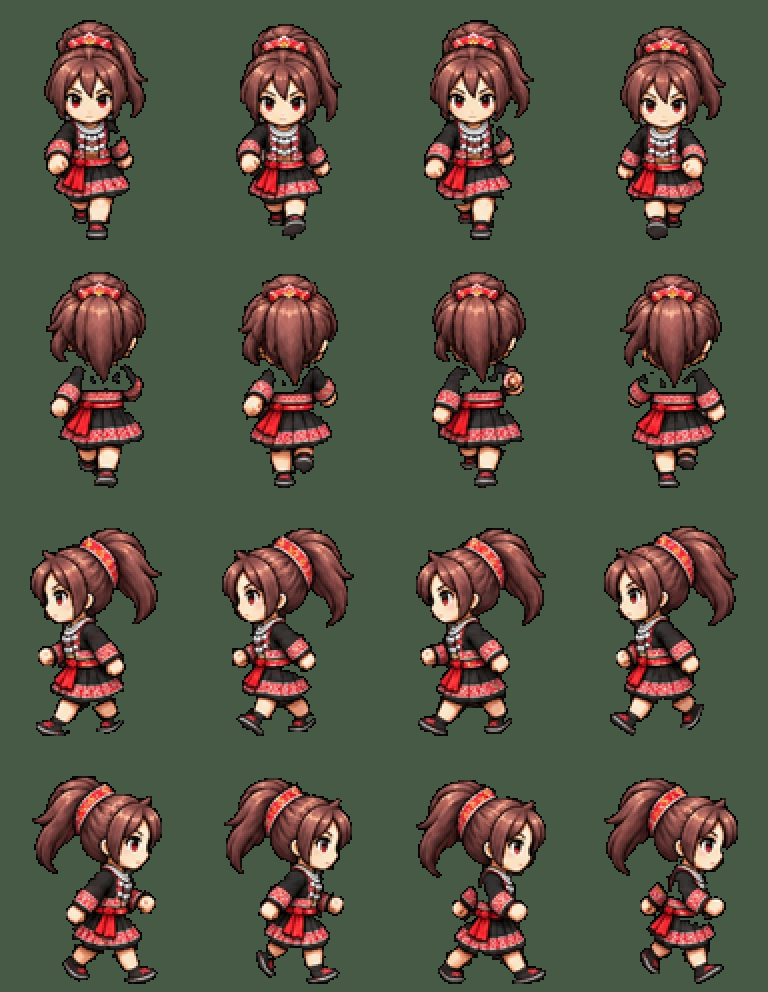
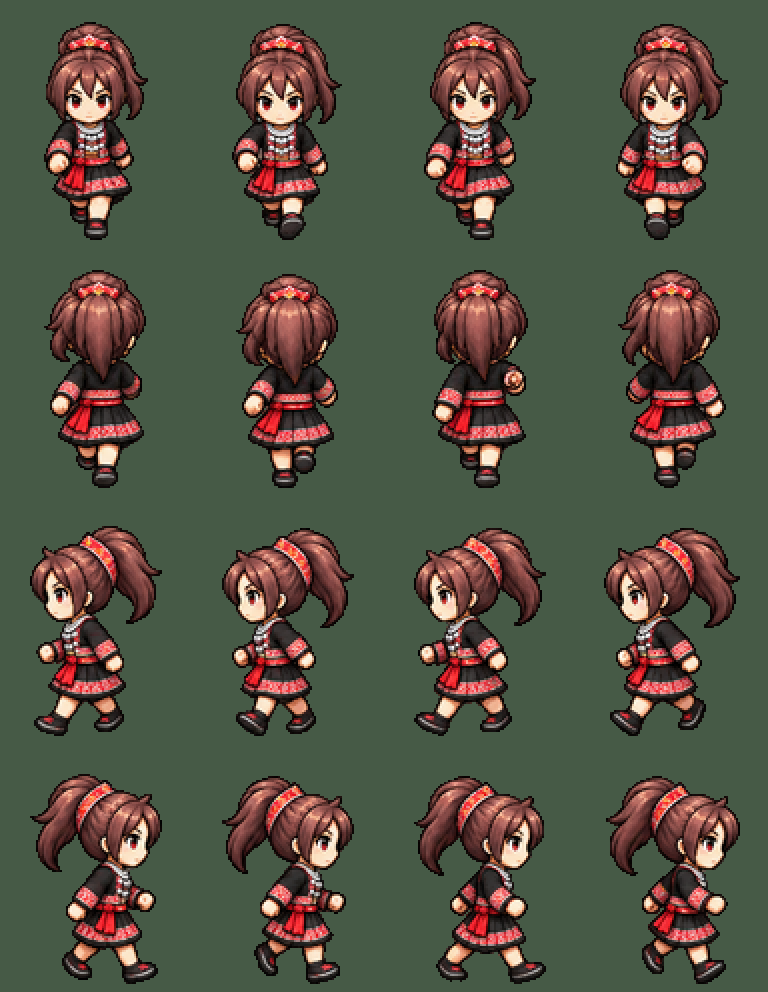
V2-R67: female fighter walk from the owner's PNG original
- Walk sheet now uses the owner's transparent PNG (4 directions x 4 frames)
  instead of the one cut from the phone screenshot. Faint pixels with alpha
  below 40 (137,278 of them) are removed from the source, as in V2-R66.
- The attack sheet is rebuilt against the new walk height (scale 0.462).
  Height ratio attack/walk per direction: S 0.995, N 0.954, W 0.99, E 0.99.
- Audit 16/16; smoke 149/149, sim 119/119, online 103/103. healthz reports V2-R67.

Claude-Session: https://claude.ai/code/session_01Fx9SAiv1fdMtU2kmML8rNS

diff --git a/server/server.js b/server/server.js
@@ -74,7 +74,7 @@ function createServer(opts = {}) {
     const url = new URL(req.url, 'http://x');
     for (const [k, v] of Object.entries(SEC_HEADERS)) res.setHeader(k, v);
     try {
-      if (req.method === 'GET' && url.pathname === '/healthz') return json(res, 200, { ok: true, ver: 'V2-R66', online: online.size, uptime: Math.round(process.uptime()), admins: conf.admins.length }); // admins = จำนวนชื่อใน ADMIN_USERS (ไม่เปิดเผยชื่อ) ใช้ตรวจว่าตั้งค่าบน Render แล้ว
+      if (req.method === 'GET' && url.pathname === '/healthz') return json(res, 200, { ok: true, ver: 'V2-R67', online: online.size, uptime: Math.round(process.uptime()), admins: conf.admins.length }); // admins = จำนวนชื่อใน ADMIN_USERS (ไม่เปิดเผยชื่อ) ใช้ตรวจว่าตั้งค่าบน Render แล้ว
       if (req.method === 'GET' && (url.pathname === '/' || url.pathname === '/index.html')) {
         res.writeHead(200, { 'content-type': 'text/html; charset=utf-8', 'cache-control': 'no-cache' });
         return fs.createReadStream(conf.gameFile).pipe(res);

diff --git a/game/index.html b/game/index.html
@@ -129,7 +129,7 @@ button:focus-visible{outline:3px solid var(--ink);outline-offset:2px}
 </div>
 <script>
 (function(){
-const ASSET_V='ab9de86e93';/*ASSET_V*/const sprUrl=f=>'sprites/'+f+'?v='+ASSET_V; /* V2-R63: รุ่นของสปริต กันเครื่องที่แคชไฟล์เก่าไว้ */
+const ASSET_V='d49a4f850d';/*ASSET_V*/const sprUrl=f=>'sprites/'+f+'?v='+ASSET_V; /* V2-R63: รุ่นของสปริต กันเครื่องที่แคชไฟล์เก่าไว้ */
 const T=32,COLS=48,ROWS=32,W=COLS*T,H=ROWS*T;
 const hh=(x,y,s)=>{let n=(x*374761393+y*668265263+(s||0)*982451653)|0;n=Math.imul(n^(n>>>13),1274126177);return(((n^(n>>>16))>>>0)/4294967295)};
 const inb=(x,y)=>x>=0&&y>=0&&x<COLS&&y<ROWS;

diff --git a/docs/CHANGELOG.md b/docs/CHANGELOG.md
@@ -1,5 +1,16 @@
 # ประวัติเวอร์ชัน
 
+## V2-R67 — 2026-11-15 (นักสู้หญิงชุดม้ง: ท่าเดินจากไฟล์ PNG ต้นฉบับ)
+
+- ท่าเดิน 4 ทิศ × 4 เฟรมของนักสู้หญิงใช้ไฟล์ PNG ต้นฉบับ `assets/sprites_src/classbody/fighter_f_walk_v3.png` แทนไฟล์ที่ตัดจากภาพแคปหน้าจอ (JPG) เส้นขอบและชุดดำจึงคมชัดขึ้น
+  - ลบพิกเซลจาง (alpha < 40) 137,278 จุดออกจากไฟล์ต้นทาง เหตุผลเดียวกับท่าโจมตีใน V2-R66
+- ตัวสร้างภาพสร้างสปริตนักสู้หญิงใหม่ ท่าโจมตีปรับความสูงตามท่าเดินใหม่ (scale 0.462)
+- ความสูงท่าโจมตี/ท่าเดินรายทิศ: S 0.995 · N 0.954 · W 0.99 · E 0.99 (N ต่ำกว่าเล็กน้อยเพราะเฟรมท่าโจมตีด้านหลังในต้นฉบับสั้นกว่า อยู่ในเกณฑ์ ±8%)
+- `tools/character_audit.py`: 16/16 ผ่าน
+- ทดสอบ: smoke 149/149, sim 119/119, online 103/103 · จับภาพในเกม `evidence/fighter_f_hmong_r67_*.png`
+- `/healthz` แสดง `V2-R67`
+- ยังไม่ได้ทดสอบบนมือถือจริง
+
 ## V2-R66 — 2026-11-15 (นักสู้หญิงชุดม้ง)
 
 - ตามคำสั่ง "แก้ตัวละครนักสู้หญิงให้เป็นตัวละครชุดม้ง": เปลี่ยนชุดนักสู้หญิงจากเกราะแดง-ทองเป็นชุดม้ง (เสื้อดำปักลายแดง-ชมพู กระโปรงจีบดำมีแถบปักแดง สายคาดเอวแดง ห่วงเงินรอบคอ รองเท้าผ้าดำ หางม้าผูกผ้าแดง มือพันผ้าแดง) ให้เข้ากับนักสู้ชาย

diff --git a/docs/STATUS.md b/docs/STATUS.md
@@ -355,3 +355,10 @@ V2-R20: snapshot แบบย่อ + ระยะมองเห็น + ส่
 | --- | --- | --- |
 | นักสู้หญิงชุดม้ง: เดิน 4 ทิศ × 4 เฟรม และท่าโจมตี 4 ทิศ × 5 เฟรม | พัฒนาแล้ว · รอดูบนมือถือจริง | audit 16/16 (ความสูงท่าโจมตี/ท่าเดิน 0.98, เท้าตรงกัน); จับภาพในเกม `evidence/fighter_f_hmong_r66_*.png`; smoke 149/149, sim 119/119, online 103/103 |
 | ท่าเดินนักสู้หญิงตัดจากภาพแคปหน้าจอ (JPG 1080 px) | พัฒนาแล้ว · ไม่บังคับ: ส่ง PNG ต้นฉบับเพื่อความคมชัดได้ | ตรวจบนพื้นหญ้าและในเกมแล้ว ชุดดำไม่หาย |
+
+## นักสู้หญิงชุดม้ง: ท่าเดินจากไฟล์ PNG (V2-R67)
+
+| งาน | สถานะ | วิธีทดสอบ / ผล |
+| --- | --- | --- |
+| ท่าเดินนักสู้หญิงชุดม้ง 4 ทิศ × 4 เฟรม ใช้ไฟล์ PNG ต้นฉบับ (แทนไฟล์แคปหน้าจอ) | พัฒนาแล้ว · รอดูบนมือถือจริง | จับภาพในเกม `evidence/fighter_f_hmong_r67_walk.png`; ความสูงท่าโจมตี/ท่าเดินรายทิศ S 0.995 · N 0.954 · W 0.99 · E 0.99; audit 16/16 |
+| ตรวจความคมชัดของท่าเดินและท่าโจมตีหลังเปลี่ยนไฟล์ | ทดสอบผ่าน (ตรวจด้วยตา · จำลอง) | `evidence/fighter_f_hmong_r67_sheets.png`; smoke 149/149, sim 119/119, online 103/103 |
